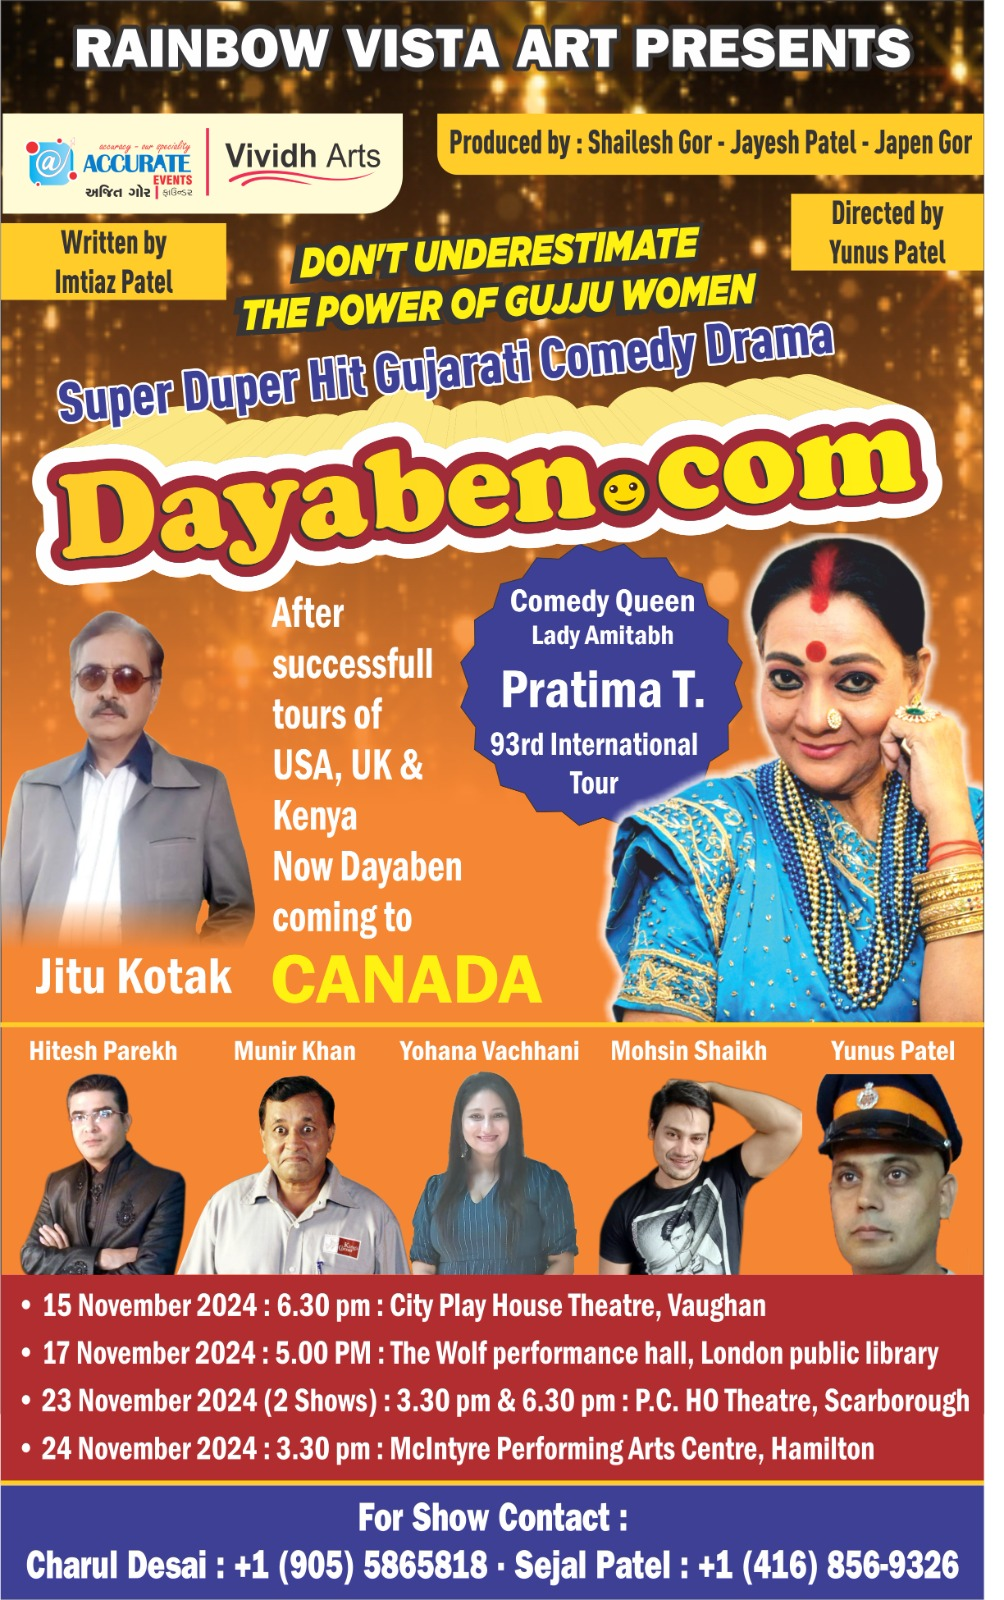
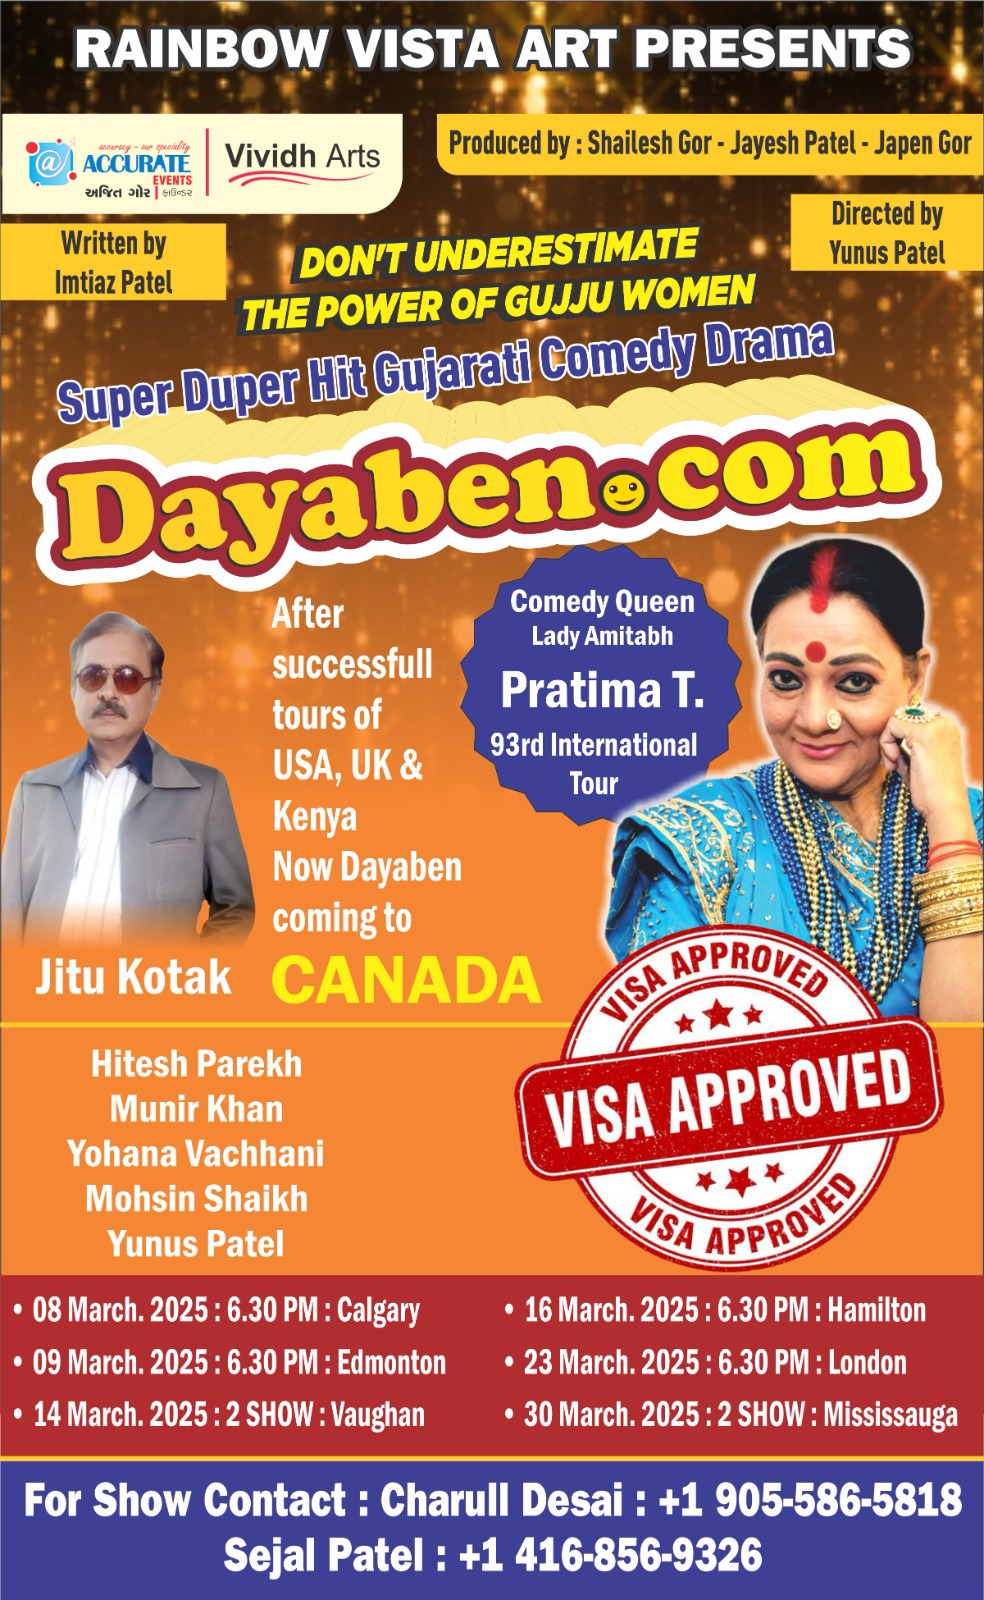
changing poster and dates

diff --git a/src/components/Shows.js b/src/components/Shows.js
@@ -10,7 +10,7 @@ const Shows = () => {
       <div className="show">
         <img src={poster} alt='poster'></img>
         <h3>Dayaben.com</h3>
-        <p> Date:tdb  Location:tdb</p>
+        <p> Date:March, 2025  Location:Canada</p>
         <p> Daya Ben is a simple homemaker, who is always engrossed in household chores. Her husband Amit considers her naive. Their college-going son Pratik enjoys his carefree life. Brother-in-law Falgun and sister-in-law Meghna work in corporate jobs. Meghna, with her beauty, good job, and salary, always overshadows Daya, creating a constant sense of inferiority. Falgun is a henpack husband. Daya's status within the household is lower than that of the domestic help. Daya is consistently taunted like a football by everyone. Upset, she tells her son that no one respects her at home. In response, Pratik suggests letting everyone live in their own space and not interfering in others' matters. Disheartened, Daya pleads to God, questioning where her space is if everyone is allowed to live in their own. Suddenly, a voice from the oracle declares that Dayaa logon kaa toh time aata hai, tumhara toh zamaana aayega...
 
 In a twist, a call from the police station informs them that Pratik has been caught consuming drugs behind the college. When they visit the police station, a hoodlum breaks open a lockup and starts running. He grabs the inspector's gun, places it on Amit's head, and attempts to escape after making him a hostage. Amid the crisis, Daya transforms into a fierce Durga to save her husband. She confronts the troublemaker and ensures Amit's safety. The story takes a turn when a video of Daya in her fierce avatar goes viral.
